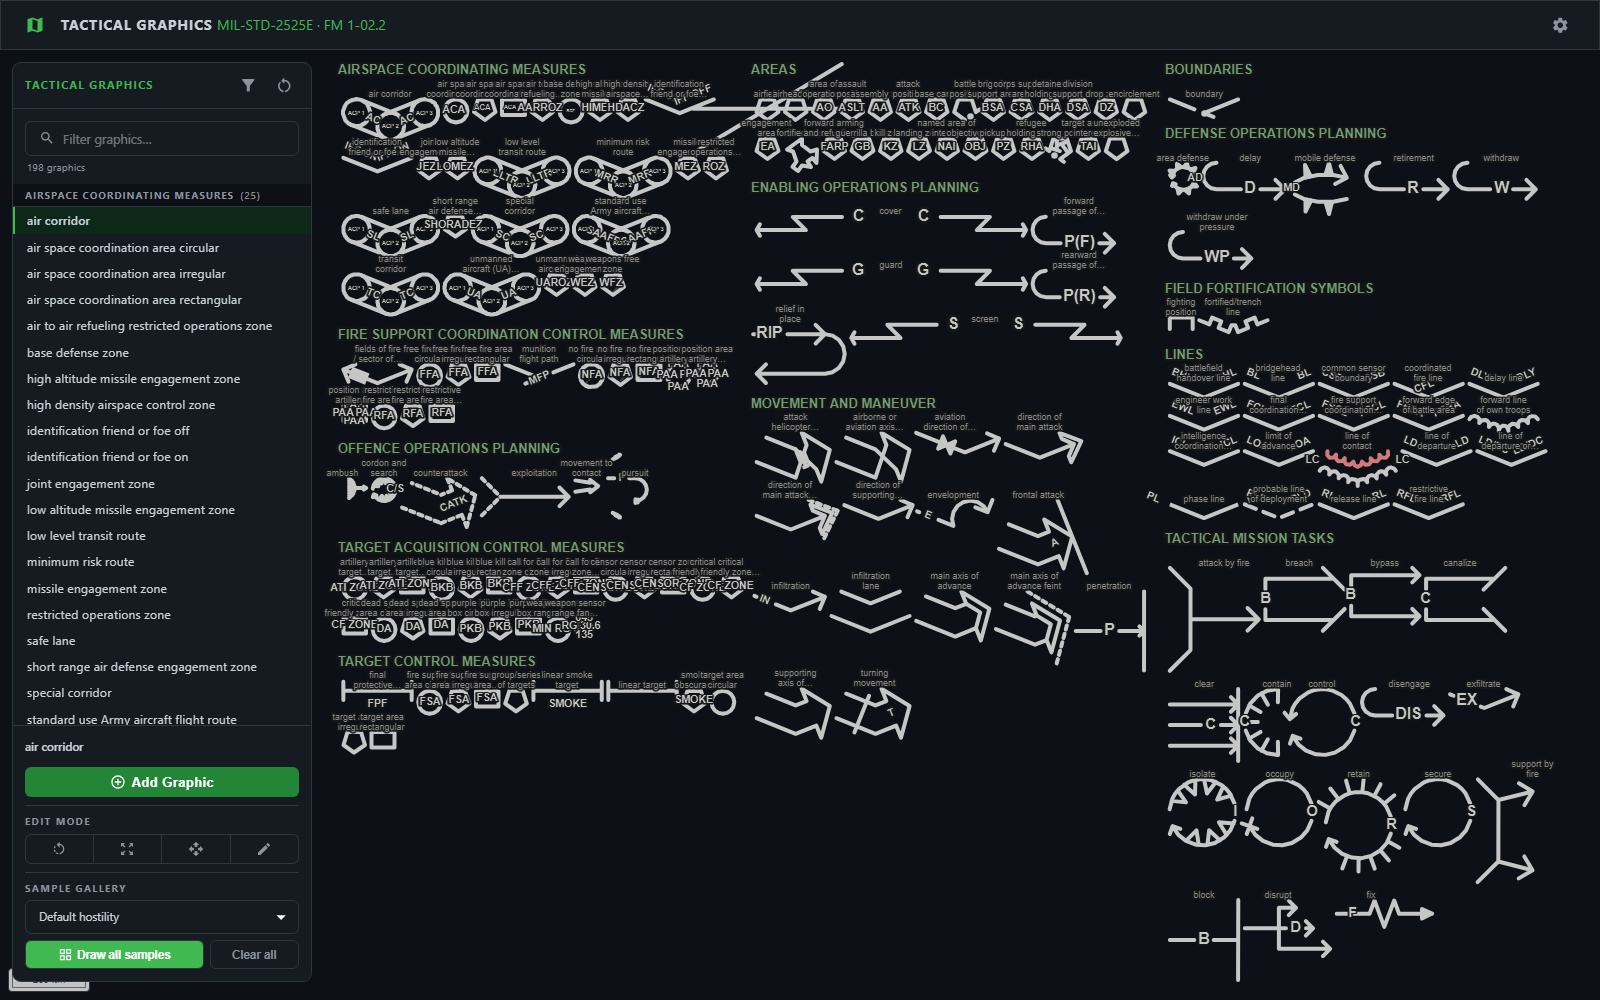
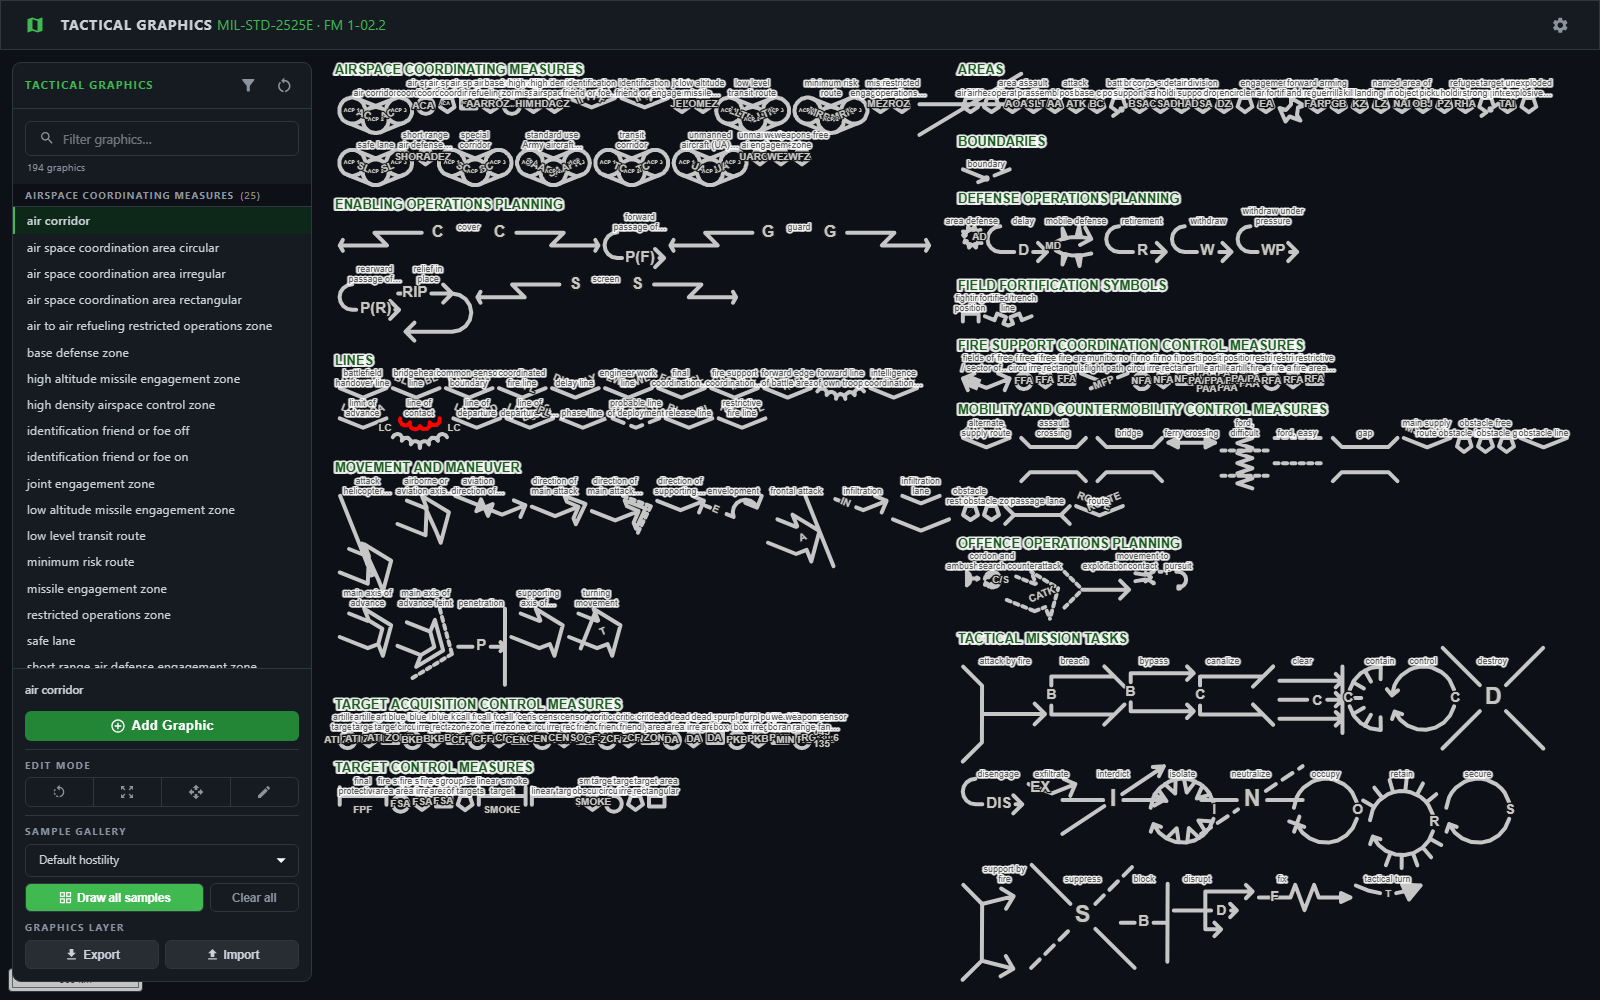
Sign off the six obstacle graphics; reshoot the gallery
The obstacle family -- belt, free area, group, line, restricted area, zone --
had In UI = Y in the tracker but nothing in Shape & Label Ok or Edit Handles,
so all six sat in the README's Upcoming table despite being drawable. They are
the last Mobility and Countermobility rows in the menu that had not been signed
off; the crossing sites and supply routes went Y with the mobility pass.

Verified in the running app, one browser session per case, because OL's Pointer
interaction only honours the first synthetic drag in a page session. Each of the
six: draws with real geometry, emits graphic/handle/label features, takes a name
through the properties dialog and renders it, and moves under both a translate
drag and a modify-mode vertex drag. No console errors.

Regenerated from the tracker: the README's two tables (207 supported, 27
upcoming) and provenGraphics.ts (193). The headline count in the README intro is
hand-maintained and was still on 201 -- it is not one of the generated blocks.

docs/images/sample-gallery.png reshot, so the hero screenshot shows the six in
the Mobility and Countermobility block. 1016 features rendered, 354 tests green,
typecheck clean, both --check generators clean.

Two things left alone, both already on the known-issues list: obstacle line's
label overlaps its own crenellations at the drawn bend, and FM 1-02.2 para 5-3
puts obstacles in green, which getColorByHostility still does not model -- all
six render neutral.

Changed region(s): [[0.0, 0.062, 1.0, 0.992], [0.5938, 0.961, 0.6562, 0.992]]

diff --git a/src/components/openlayers/provenGraphics.ts b/src/components/openlayers/provenGraphics.ts
@@ -137,6 +137,12 @@ export const PROVEN_GRAPHICS: TacticalGraphicName[] = [
     TacticalGraphicName.NoFireAreaIrregular,
     TacticalGraphicName.NoFireAreaRectangular,
     TacticalGraphicName.ObjectiveArea,
+    TacticalGraphicName.ObstacleBelt,
+    TacticalGraphicName.ObstacleFreeArea,
+    TacticalGraphicName.ObstacleGroup,
+    TacticalGraphicName.ObstacleLine,
+    TacticalGraphicName.ObstacleRestrictedArea,
+    TacticalGraphicName.ObstacleZone,
     TacticalGraphicName.Occupy,
     TacticalGraphicName.PassageLane,
     TacticalGraphicName.Penetration,

diff --git a/README.md b/README.md
@@ -8,7 +8,7 @@ This library complements [milsymbol](https://github.com/spatialillusions/milsymb
 
 **[▶ Try the live demo](https://zaes-code.github.io/tactical-graphics/)** — draw any graphic, edit its handles, and set its amplifiers in the browser. No install, no sign-up.
 
-**201 graphics** are implemented and verified today, across 12 categories — see [Supported graphics](#supported-graphics) for the full catalog, and [Upcoming graphics](#upcoming-graphics) for what's next.
+**207 graphics** are implemented and verified today, across 12 categories — see [Supported graphics](#supported-graphics) for the full catalog, and [Upcoming graphics](#upcoming-graphics) for what's next.
 
 ---
 
@@ -469,6 +469,12 @@ The graphics below are **fully implemented and verified** — each can be drawn,
 | Main Supply Route, Alternating Traffic | Mobility and Countermobility Control Measures |
 | Main Supply Route, One-Way Traffic | Mobility and Countermobility Control Measures |
 | Main Supply Route, Two-Way Traffic | Mobility and Countermobility Control Measures |
+| Obstacle Belt | Mobility and Countermobility Control Measures |
+| Obstacle Free Area | Mobility and Countermobility Control Measures |
+| Obstacle Group | Mobility and Countermobility Control Measures |
+| Obstacle Line | Mobility and Countermobility Control Measures |
+| Obstacle Restricted Area | Mobility and Countermobility Control Measures |
+| Obstacle Zone | Mobility and Countermobility Control Measures |
 | Passage Lane | Mobility and Countermobility Control Measures |
 | Route | Mobility and Countermobility Control Measures |
 | Route - Alternating Traffic | Mobility and Countermobility Control Measures |
@@ -578,12 +584,6 @@ Everything still being worked towards. A graphic is listed here until it is draw
 | High Wire Fence | Mobility and Countermobility Control Measures |
 | Low Wire Fence | Mobility and Countermobility Control Measures |
 | Moving Convoy | Mobility and Countermobility Control Measures |
-| Obstacle Belt | Mobility and Countermobility Control Measures |
-| Obstacle Free Area | Mobility and Countermobility Control Measures |
-| Obstacle Group | Mobility and Countermobility Control Measures |
-| Obstacle Line | Mobility and Countermobility Control Measures |
-| Obstacle Restricted Area | Mobility and Countermobility Control Measures |
-| Obstacle Zone | Mobility and Countermobility Control Measures |
 | Roadblock Complete (executed) | Mobility and Countermobility Control Measures |
 | Single Concertina | Mobility and Countermobility Control Measures |
 | Single Fence | Mobility and Countermobility Control Measures |
